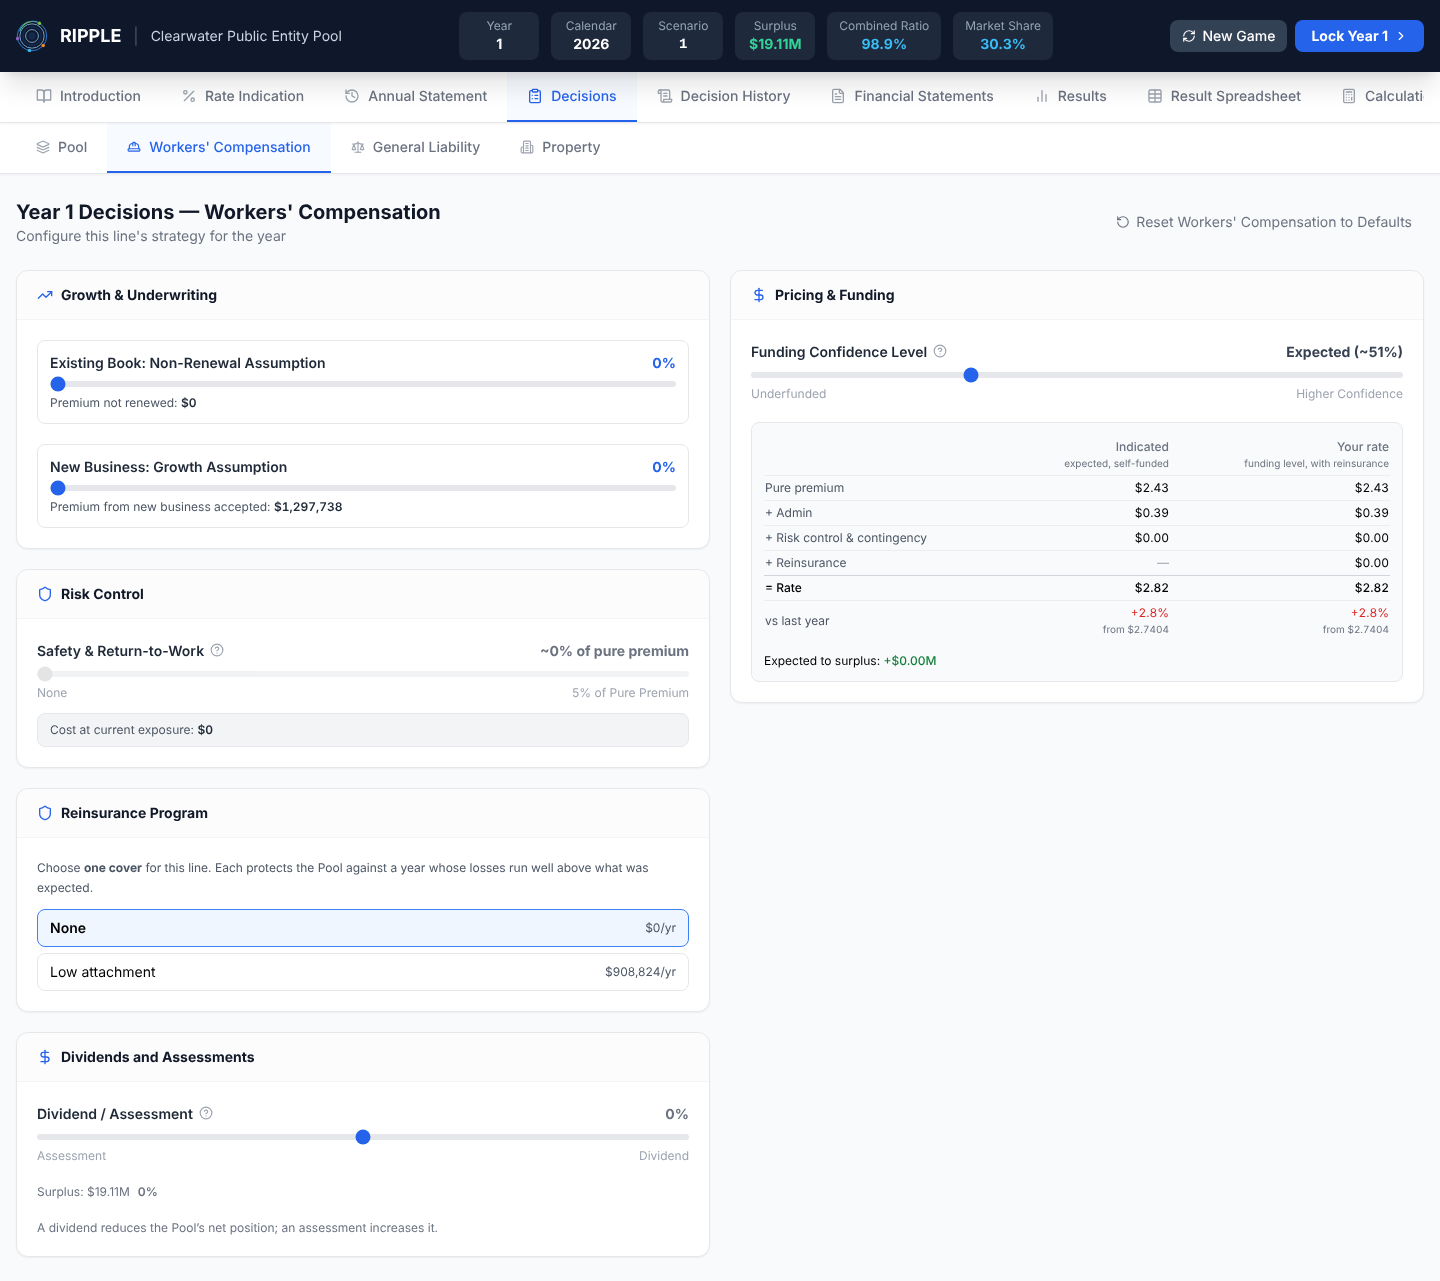
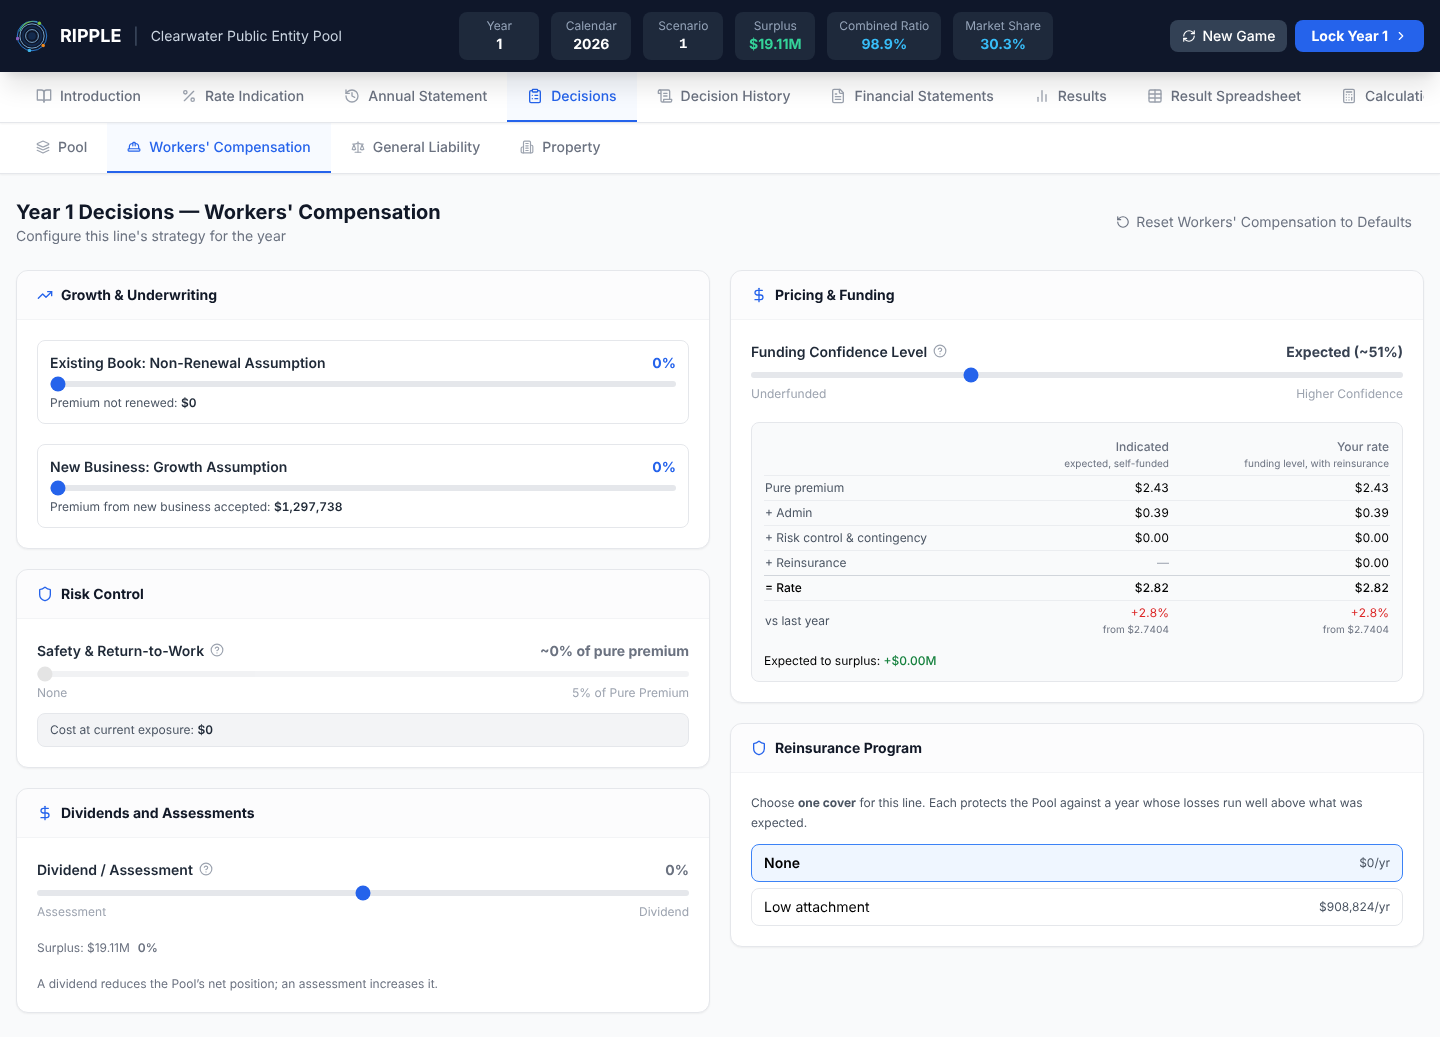
Decisions page: Reinsurance moves to the right column, under Pricing & Funding
Display only. Left column: Underwriting, Risk Control, then Dividends and
Assessments. Right column: Pricing & Funding, then Reinsurance. Screenshots
retaken.

Claude-Session: https://claude.ai/code/session_01Fo2BPoXiA5N4pgk5Jgcw3V

diff --git a/src/pages/DecisionsPage.tsx b/src/pages/DecisionsPage.tsx
@@ -186,8 +186,8 @@ export default function DecisionsPage({ decisions, onChange, yearNumber, disable
         )}
       </div>
 
-      {/* ⚠ LEFT: Underwriting, Risk Control, Reinsurance, then Dividends and
-          Assessments at the foot. RIGHT: Pricing & Funding. */}
+      {/* ⚠ LEFT: Underwriting, Risk Control, then Dividends and Assessments at
+          the foot. RIGHT: Pricing & Funding, then Reinsurance beneath it. */}
       <div className="grid grid-cols-1 lg:grid-cols-2 gap-5 items-start">
         {/* ⚠ EACH COLUMN IS ONE GRID CELL holding its cards, so every card sits
             DIRECTLY UNDER the one above it in its own column rather than wherever
@@ -262,26 +262,6 @@ export default function DecisionsPage({ decisions, onChange, yearNumber, disable
           />
         </SectionCard>
 
-        <SectionCard title="Reinsurance Program" icon={<Shield size={16} />}>
-          {/* REINSURANCE_PROGRAMS RETIRED. Every CoverageLine runs the
-              per-occurrence tower now — hasTractableCeded(selectedLine) is
-              exhaustively true — so the percentage-of-premium branch that used
-              to render here is gone rather than kept dead. hasTractableCeded
-              stays imported and checked (thrown on else) so a future line
-              without one fails loudly here instead of rendering nothing. */}
-          {hasTractableCeded(selectedLine) ? (
-            <PackageControls
-              line={selectedLine}
-              d={d}
-              setMany={setMany}
-              disabled={disabled}
-              book={book}
-              yearNumber={yearNumber}
-              shocks={shocks}
-            />
-          ) : (() => { throw new Error(`DecisionsPage: ${selectedLine} has no tractable ceded reinsurance`); })()}
-        </SectionCard>
-
         <SectionCard title="Dividends and Assessments" icon={<DollarSign size={16} />}>
           <SliderInput label="Dividend / Assessment" value={dividendAssessmentValue} min={SLIDER_RANGES.dividendAssessment.min} max={dividendAssessmentMax} step={SLIDER_RANGES.dividendAssessment.step} onChange={setDividendAssessment} formatValue={dividendAssessmentDisplay} leftLabel="Assessment" rightLabel="Dividend" valueColor={dividendAssessmentValue > 0 ? 'text-emerald-600' : dividendAssessmentValue < 0 ? 'text-red-600' : 'text-gray-500'} disabled={disabled} helpText="One combined control: positive returns value to members as a dividend; negative calls additional funds beyond premium as an assessment. Exactly one may apply in a given year — this is structural, not a suggestion. Assessments are never counted toward the loss ratio of the members being billed." />
           <DividendAssessmentNote surplus={dividendAssessmentSurplus} pct={dividendAssessmentValue} />
@@ -311,6 +291,26 @@ export default function DecisionsPage({ decisions, onChange, yearNumber, disable
               disabled={disabled}
             />
             <FundingConsequencePanel c={fundingConsequence} lastLineResult={lastLineResult} line={selectedLine} />
+          </SectionCard>
+
+          <SectionCard title="Reinsurance Program" icon={<Shield size={16} />}>
+            {/* REINSURANCE_PROGRAMS RETIRED. Every CoverageLine runs the
+                per-occurrence tower now — hasTractableCeded(selectedLine) is
+                exhaustively true — so the percentage-of-premium branch that used
+                to render here is gone rather than kept dead. hasTractableCeded
+                stays imported and checked (thrown on else) so a future line
+                without one fails loudly here instead of rendering nothing. */}
+            {hasTractableCeded(selectedLine) ? (
+              <PackageControls
+                line={selectedLine}
+                d={d}
+                setMany={setMany}
+                disabled={disabled}
+                book={book}
+                yearNumber={yearNumber}
+                shocks={shocks}
+              />
+            ) : (() => { throw new Error(`DecisionsPage: ${selectedLine} has no tractable ceded reinsurance`); })()}
           </SectionCard>
 
           {outstandingLoanSlider(d, set, selectedLoanInfo, disabled)}
